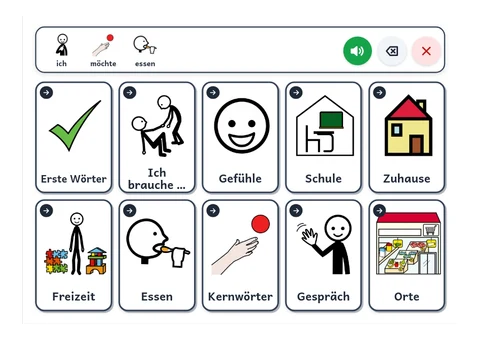
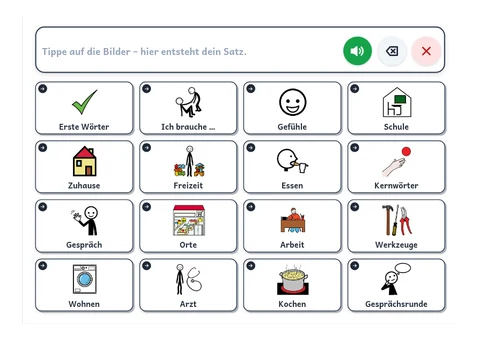
Kommunikationsbuch wie in Lernsachen-Heft 1.47.3: sechs neue Themen-Tafeln (Arbeit und Praktikum, Werkzeuge, Wohnen und Haushalt, Beim Arzt, Kochen, Gesprächsrunde) als Lernwerkzeuge und im Kommunikationsbuch, dessen Startseite alle 16 Tafeln im Raster 4 × 4 zeigt; 69 weitere ARASAAC-Bilder in publi

Changed region(s): [[0.0625, 0.2353, 0.9375, 0.9412], [0.0938, 0.0882, 0.5312, 0.2059]]

diff --git a/src/lib/reference/class-runtime.ts b/src/lib/reference/class-runtime.ts
@@ -1,6 +1,7 @@
 /* eslint-disable */
 // @ts-nocheck
-// Generated from Lernsachen-Heft.html by scripts/extract-class-reference.mjs:
+// Generated from Lernsachen-Heft.html (talk boards from Lernsachen-Heft-komplett.html, 1.47.3)
+// by scripts/extract-class-reference.mjs:
 // Uhr, Timer, Datum (Regal › Zeit) and the Multi-Timer of the reference,
 // unchanged except that the weather is asked through /api/wetter.
 var e = Object.create;
@@ -3808,9 +3809,9 @@ function Dk(e17) {
   return { id: YO(`tk`), type: `talk`, label: ``, color: `#ffffff`, ...e17, rot: e17.rot ?? 0 };
 }
 var Ok = { P: { label: `Personen`, color: `#fff3bf` }, V: { label: `Tun-W\xF6rter`, color: `#d3f9d8` }, A: { label: `Wie-W\xF6rter`, color: `#d0ebff` }, N: { label: `Dinge, Orte`, color: `#ffe8cc` }, S: { label: `Soziales`, color: `#ffdeeb` }, F: { label: `Fragen`, color: `#e5dbff` }, K: { label: `Kleine W\xF6rter`, color: `#f1f3f5` }, W: { label: `Wei\xDF`, color: `#ffffff` } };
-var kk = [{ id: `talk-basis`, label: `Erste W\xF6rter`, keywords: `basal basis ja nein mehr fertig stopp hilfe erste w\xF6rter`, cols: 3, rows: 2, cells: [[`Ja`, 5584, `S`, `Ja.`], [`Nein`, 5526, `S`, `Nein.`], [`Mehr`, 5508, `K`, `Mehr, bitte.`], [`Fertig`, 28429, `V`, `Ich bin fertig.`], [`Stopp`, 7196, `S`, `Stopp!`], [`Hilfe`, 32648, `V`, `Hilf mir bitte.`]] }, { id: `talk-brauche`, label: `Ich brauche \u2026`, keywords: `bed\xFCrfnisse pers\xF6nlich brauche toilette trinken essen pause hilfe schmerzen m\xFCde kalt warm`, cols: 4, rows: 3, cells: [[`Toilette`, 5921, `N`, `Ich muss auf die Toilette.`], [`trinken`, 6061, `V`, `Ich m\xF6chte etwas trinken.`], [`essen`, 6456, `V`, `Ich m\xF6chte etwas essen.`], [`Pause`, 24503, `N`, `Ich brauche eine Pause.`], [`Hilfe`, 32648, `V`, `Ich brauche Hilfe.`], [`Schmerzen`, 2367, `N`, `Mir tut etwas weh.`], [`m\xFCde`, 35537, `A`, `Ich bin m\xFCde.`], [`kalt`, 35583, `A`, `Mir ist kalt.`], [`warm`, 35721, `A`, `Mir ist warm.`], [`Ruhe`, 5936, `N`, `Ich brauche Ruhe.`], [`Taschentuch`, 17284, `N`, `Ich brauche ein Taschentuch.`], [`kuscheln`, 6023, `V`, `Ich m\xF6chte kuscheln.`]] }, { id: `talk-gefuehle`, label: `Gef\xFChle`, keywords: `gef\xFChle gef\xFChl fr\xF6hlich traurig w\xFCtend angst krank gut schlecht emotionen wie geht es dir`, cols: 4, rows: 3, cells: [[`fr\xF6hlich`, 35547, `A`, `Ich bin fr\xF6hlich.`], [`traurig`, 35545, `A`, `Ich bin traurig.`], [`w\xFCtend`, 35539, `A`, `Ich bin w\xFCtend.`], [`Angst`, 10261, `N`, `Ich habe Angst.`], [`m\xFCde`, 35537, `A`, `Ich bin m\xFCde.`], [`krank`, 3308, `A`, `Ich bin krank.`], [`gut`, 38564, `A`, `Mir geht es gut.`], [`schlecht`, 39951, `A`, `Mir geht es schlecht.`], [`\xFCberrascht`, 35529, `A`, `Ich bin \xFCberrascht.`], [`aufgeregt`, 30391, `A`, `Ich bin aufgeregt.`], [`ruhig`, 31310, `A`, `Ich bin ruhig.`], [`gelangweilt`, 35531, `A`, `Mir ist langweilig.`]] }, { id: `talk-schule`, short: `Schule`, label: `In der Schule`, keywords: `schule schulisch unterricht klasse stift schere kleber buch heft tafel lesen schreiben rechnen malen pause`, cols: 5, rows: 4, cells: [[`Lehrerin`, 6556, `P`], [`Mitsch\xFCler`, 37658, `P`], [`Stift`, 2440, `N`], [`Buntstifte`, 17016, `N`], [`Schere`, 2591, `N`], [`Kleber`, 2709, `N`], [`Buch`, 25191, `N`], [`Heft`, 2359, `N`], [`Arbeitsblatt`, 37405, `N`], [`Tafel`, 2526, `N`], [`Computer`, 7190, `N`], [`Tablet`, 28099, `N`], [`lesen`, 7141, `V`], [`schreiben`, 2380, `V`], [`rechnen`, 8518, `V`], [`malen`, 5574, `V`], [`Pause`, 24503, `N`, `Ich brauche eine Pause.`], [`fertig`, 28429, `V`, `Ich bin fertig.`], [`Hilfe`, 32648, `V`, `Kannst du mir helfen?`], [`Toilette`, 5921, `N`, `Ich muss auf die Toilette.`]] }, { id: `talk-zuhause`, short: `Zuhause`, label: `Zuhause und Familie`, keywords: `privat zuhause familie mama papa bruder schwester oma opa baby schlafen baden hund katze`, cols: 4, rows: 3, cells: [[`Mama`, 2458, `P`], [`Papa`, 31146, `P`], [`Bruder`, 2423, `P`], [`Schwester`, 2422, `P`], [`Oma`, 23710, `P`], [`Opa`, 23718, `P`], [`Baby`, 6060, `P`], [`Zuhause`, 6964, `N`], [`schlafen`, 6479, `V`], [`baden`, 6058, `V`], [`Hund`, 7202, `N`], [`Katze`, 7114, `N`]] }, { id: `talk-freizeit`, short: `Freizeit`, label: `Freizeit und Hobbys`, keywords: `freizeit hobbys hobby spielen fu\xDFball malen musik singen tanzen fahrrad schwimmen fernsehen spielplatz freunde`, cols: 4, rows: 4, cells: [[`spielen`, 23392, `V`], [`Fu\xDFball`, 16743, `N`], [`malen`, 5574, `V`], [`Musik h\xF6ren`, 2746, `V`], [`singen`, 6960, `V`], [`tanzen`, 35747, `V`], [`Fahrrad fahren`, 36945, `V`], [`schwimmen`, 6568, `V`], [`fernsehen`, 29123, `V`], [`Videospiel`, 37464, `N`], [`lesen`, 7141, `V`], [`drau\xDFen`, 5475, `A`], [`Spielplatz`, 33064, `N`], [`Freunde`, 2255, `P`], [`Puzzle`, 2540, `N`], [`basteln`, 7794, `V`]] }, { id: `talk-essen`, short: `Essen`, label: `Essen und Trinken`, keywords: `essen trinken fr\xFChst\xFCck pause wasser saft milch brot apfel banane nudeln pizza`, cols: 4, rows: 4, cells: [[`Wasser`, 32464, `N`], [`Saft`, 11461, `N`], [`Milch`, 2445, `N`], [`Kakao`, 4940, `N`], [`Brot`, 2494, `N`], [`Brezel`, 39058, `N`], [`Apfel`, 2462, `N`], [`Banane`, 2530, `N`], [`Nudeln`, 8652, `N`], [`Pizza`, 2527, `N`], [`Kartoffeln`, 2503, `N`], [`Joghurt`, 2618, `N`], [`K\xE4se`, 2541, `N`], [`Cornflakes`, 2328, `N`], [`Keks`, 8312, `N`], [`Eis`, 3348, `N`]] }, { id: `talk-kern`, short: `Kernw\xF6rter`, label: `Kernw\xF6rter mit Satzleiste`, keywords: `kernvokabular kernw\xF6rter kern satzleiste s\xE4tze bauen ich du wir m\xF6chte haben machen gehen nicht mehr`, cols: 6, rows: 4, strip: true, cells: [[`ich`, 6632, `P`], [`m\xF6chte`, 5441, `V`], [`haben`, 32761, `V`], [`ist`, 36480, `V`], [`gut`, 38564, `A`], [`ja`, 5584, `S`], [`du`, 6625, `P`], [`machen`, 32751, `V`], [`gehen`, 8142, `V`], [`spielen`, 23392, `V`], [`schlecht`, 39951, `A`], [`nein`, 5526, `S`], [`wir`, 7183, `P`], [`essen`, 6456, `V`], [`trinken`, 6061, `V`], [`helfen`, 32648, `V`], [`fertig`, 28429, `A`], [`mehr`, 5508, `K`], [`was`, 22620, `F`], [`wo`, 7764, `F`], [`hier`, 5382, `K`], [`nicht`, 5525, `K`], [`auch`, 11591, `K`], [`noch mal`, 37163, `K`]] }, { id: `talk-gespraech`, short: `Gespr\xE4ch`, label: `Gespr\xE4ch und Fragen`, keywords: `gespr\xE4ch fragen hallo tsch\xFCss danke bitte wie geht es dir wer was wo wann warum wie sozial`, cols: 4, rows: 3, cells: [[`Hallo`, 6522, `S`, `Hallo!`], [`Tsch\xFCss`, 6028, `S`, `Tsch\xFCss!`], [`Danke`, 8129, `S`, `Danke!`], [`Bitte`, 8195, `S`, `Bitte.`], [`Wie geht es dir?`, 11597, `S`], [`Mir geht es gut`, 13630, `S`, `Mir geht es gut.`], [`Wer?`, 9853, `F`], [`Was?`, 22620, `F`], [`Wo?`, 7764, `F`], [`Wann?`, 32874, `F`], [`Warum?`, 36719, `F`], [`Wie?`, 22619, `F`]] }, { id: `talk-orte`, label: `Orte`, keywords: `orte ort wohin schule zuhause klassenzimmer turnhalle spielplatz supermarkt arzt garten schwimmbad bus auto b\xE4ckerei`, cols: 4, rows: 3, cells: [[`Schule`, 32446, `N`], [`Zuhause`, 6964, `N`], [`Klassenzimmer`, 33072, `N`], [`Turnhalle`, 33076, `N`], [`Spielplatz`, 33064, `N`], [`Supermarkt`, 3389, `N`], [`Arzt`, 6561, `P`], [`Garten`, 2434, `N`], [`Schwimmbad`, 30516, `N`], [`Bus`, 2263, `N`], [`Auto`, 2339, `N`], [`B\xE4ckerei`, 6576, `N`]] }];
+var kk = [{ id: `talk-basis`, label: `Erste W\xF6rter`, keywords: `basal basis ja nein mehr fertig stopp hilfe erste w\xF6rter`, cols: 3, rows: 2, cells: [[`Ja`, 5584, `S`, `Ja.`], [`Nein`, 5526, `S`, `Nein.`], [`Mehr`, 5508, `K`, `Mehr, bitte.`], [`Fertig`, 28429, `V`, `Ich bin fertig.`], [`Stopp`, 7196, `S`, `Stopp!`], [`Hilfe`, 32648, `V`, `Hilf mir bitte.`]] }, { id: `talk-brauche`, label: `Ich brauche \u2026`, keywords: `bed\xFCrfnisse pers\xF6nlich brauche toilette trinken essen pause hilfe schmerzen m\xFCde kalt warm`, cols: 4, rows: 3, cells: [[`Toilette`, 5921, `N`, `Ich muss auf die Toilette.`], [`trinken`, 6061, `V`, `Ich m\xF6chte etwas trinken.`], [`essen`, 6456, `V`, `Ich m\xF6chte etwas essen.`], [`Pause`, 24503, `N`, `Ich brauche eine Pause.`], [`Hilfe`, 32648, `V`, `Ich brauche Hilfe.`], [`Schmerzen`, 2367, `N`, `Mir tut etwas weh.`], [`m\xFCde`, 35537, `A`, `Ich bin m\xFCde.`], [`kalt`, 35583, `A`, `Mir ist kalt.`], [`warm`, 35721, `A`, `Mir ist warm.`], [`Ruhe`, 5936, `N`, `Ich brauche Ruhe.`], [`Taschentuch`, 17284, `N`, `Ich brauche ein Taschentuch.`], [`kuscheln`, 6023, `V`, `Ich m\xF6chte kuscheln.`]] }, { id: `talk-gefuehle`, label: `Gef\xFChle`, keywords: `gef\xFChle gef\xFChl fr\xF6hlich traurig w\xFCtend angst krank gut schlecht emotionen wie geht es dir`, cols: 4, rows: 3, cells: [[`fr\xF6hlich`, 35547, `A`, `Ich bin fr\xF6hlich.`], [`traurig`, 35545, `A`, `Ich bin traurig.`], [`w\xFCtend`, 35539, `A`, `Ich bin w\xFCtend.`], [`Angst`, 10261, `N`, `Ich habe Angst.`], [`m\xFCde`, 35537, `A`, `Ich bin m\xFCde.`], [`krank`, 3308, `A`, `Ich bin krank.`], [`gut`, 38564, `A`, `Mir geht es gut.`], [`schlecht`, 39951, `A`, `Mir geht es schlecht.`], [`\xFCberrascht`, 35529, `A`, `Ich bin \xFCberrascht.`], [`aufgeregt`, 30391, `A`, `Ich bin aufgeregt.`], [`ruhig`, 31310, `A`, `Ich bin ruhig.`], [`gelangweilt`, 35531, `A`, `Mir ist langweilig.`]] }, { id: `talk-schule`, short: `Schule`, label: `In der Schule`, keywords: `schule schulisch unterricht klasse stift schere kleber buch heft tafel lesen schreiben rechnen malen pause`, cols: 5, rows: 4, cells: [[`Lehrerin`, 6556, `P`], [`Mitsch\xFCler`, 37658, `P`], [`Stift`, 2440, `N`], [`Buntstifte`, 17016, `N`], [`Schere`, 2591, `N`], [`Kleber`, 2709, `N`], [`Buch`, 25191, `N`], [`Heft`, 2359, `N`], [`Arbeitsblatt`, 37405, `N`], [`Tafel`, 2526, `N`], [`Computer`, 7190, `N`], [`Tablet`, 28099, `N`], [`lesen`, 7141, `V`], [`schreiben`, 2380, `V`], [`rechnen`, 8518, `V`], [`malen`, 5574, `V`], [`Pause`, 24503, `N`, `Ich brauche eine Pause.`], [`fertig`, 28429, `V`, `Ich bin fertig.`], [`Hilfe`, 32648, `V`, `Kannst du mir helfen?`], [`Toilette`, 5921, `N`, `Ich muss auf die Toilette.`]] }, { id: `talk-zuhause`, short: `Zuhause`, label: `Zuhause und Familie`, keywords: `privat zuhause familie mama papa bruder schwester oma opa baby schlafen baden hund katze`, cols: 4, rows: 3, cells: [[`Mama`, 2458, `P`], [`Papa`, 31146, `P`], [`Bruder`, 2423, `P`], [`Schwester`, 2422, `P`], [`Oma`, 23710, `P`], [`Opa`, 23718, `P`], [`Baby`, 6060, `P`], [`Zuhause`, 6964, `N`], [`schlafen`, 6479, `V`], [`baden`, 6058, `V`], [`Hund`, 7202, `N`], [`Katze`, 7114, `N`]] }, { id: `talk-freizeit`, short: `Freizeit`, label: `Freizeit und Hobbys`, keywords: `freizeit hobbys hobby spielen fu\xDFball malen musik singen tanzen fahrrad schwimmen fernsehen spielplatz freunde`, cols: 4, rows: 4, cells: [[`spielen`, 23392, `V`], [`Fu\xDFball`, 16743, `N`], [`malen`, 5574, `V`], [`Musik h\xF6ren`, 2746, `V`], [`singen`, 6960, `V`], [`tanzen`, 35747, `V`], [`Fahrrad fahren`, 36945, `V`], [`schwimmen`, 6568, `V`], [`fernsehen`, 29123, `V`], [`Videospiel`, 37464, `N`], [`lesen`, 7141, `V`], [`drau\xDFen`, 5475, `A`], [`Spielplatz`, 33064, `N`], [`Freunde`, 2255, `P`], [`Puzzle`, 2540, `N`], [`basteln`, 7794, `V`]] }, { id: `talk-essen`, short: `Essen`, label: `Essen und Trinken`, keywords: `essen trinken fr\xFChst\xFCck pause wasser saft milch brot apfel banane nudeln pizza`, cols: 4, rows: 4, cells: [[`Wasser`, 32464, `N`], [`Saft`, 11461, `N`], [`Milch`, 2445, `N`], [`Kakao`, 4940, `N`], [`Brot`, 2494, `N`], [`Brezel`, 39058, `N`], [`Apfel`, 2462, `N`], [`Banane`, 2530, `N`], [`Nudeln`, 8652, `N`], [`Pizza`, 2527, `N`], [`Kartoffeln`, 2503, `N`], [`Joghurt`, 2618, `N`], [`K\xE4se`, 2541, `N`], [`Cornflakes`, 2328, `N`], [`Keks`, 8312, `N`], [`Eis`, 3348, `N`]] }, { id: `talk-kern`, short: `Kernw\xF6rter`, label: `Kernw\xF6rter mit Satzleiste`, keywords: `kernvokabular kernw\xF6rter kern satzleiste s\xE4tze bauen ich du wir m\xF6chte haben machen gehen nicht mehr`, cols: 6, rows: 4, strip: true, cells: [[`ich`, 6632, `P`], [`m\xF6chte`, 5441, `V`], [`haben`, 32761, `V`], [`ist`, 36480, `V`], [`gut`, 38564, `A`], [`ja`, 5584, `S`], [`du`, 6625, `P`], [`machen`, 32751, `V`], [`gehen`, 8142, `V`], [`spielen`, 23392, `V`], [`schlecht`, 39951, `A`], [`nein`, 5526, `S`], [`wir`, 7183, `P`], [`essen`, 6456, `V`], [`trinken`, 6061, `V`], [`helfen`, 32648, `V`], [`fertig`, 28429, `A`], [`mehr`, 5508, `K`], [`was`, 22620, `F`], [`wo`, 7764, `F`], [`hier`, 5382, `K`], [`nicht`, 5525, `K`], [`auch`, 11591, `K`], [`noch mal`, 37163, `K`]] }, { id: `talk-gespraech`, short: `Gespr\xE4ch`, label: `Gespr\xE4ch und Fragen`, keywords: `gespr\xE4ch fragen hallo tsch\xFCss danke bitte wie geht es dir wer was wo wann warum wie sozial`, cols: 4, rows: 3, cells: [[`Hallo`, 6522, `S`, `Hallo!`], [`Tsch\xFCss`, 6028, `S`, `Tsch\xFCss!`], [`Danke`, 8129, `S`, `Danke!`], [`Bitte`, 8195, `S`, `Bitte.`], [`Wie geht es dir?`, 11597, `S`], [`Mir geht es gut`, 13630, `S`, `Mir geht es gut.`], [`Wer?`, 9853, `F`], [`Was?`, 22620, `F`], [`Wo?`, 7764, `F`], [`Wann?`, 32874, `F`], [`Warum?`, 36719, `F`], [`Wie?`, 22619, `F`]] }, { id: `talk-orte`, label: `Orte`, keywords: `orte ort wohin schule zuhause klassenzimmer turnhalle spielplatz supermarkt arzt garten schwimmbad bus auto b\xE4ckerei`, cols: 4, rows: 3, cells: [[`Schule`, 32446, `N`], [`Zuhause`, 6964, `N`], [`Klassenzimmer`, 33072, `N`], [`Turnhalle`, 33076, `N`], [`Spielplatz`, 33064, `N`], [`Supermarkt`, 3389, `N`], [`Arzt`, 6561, `P`], [`Garten`, 2434, `N`], [`Schwimmbad`, 30516, `N`], [`Bus`, 2263, `N`], [`Auto`, 2339, `N`], [`B\xE4ckerei`, 6576, `N`]] }, { id: `talk-arbeit`, label: `Arbeit und Praktikum`, short: `Arbeit`, keywords: `arbeit praktikum werkstatt wfbm betrieb arbeitsplatz hilfe pause fertig material kaputt feierabend krank chef kollegen beruf`, cols: 4, rows: 3, cells: [[`Guten Morgen`, 6522, `S`, `Guten Morgen!`], [`Was soll ich tun?`, 5556, `F`, `Was soll ich tun?`], [`fertig`, 28429, `V`, `Ich bin fertig.`], [`Hilfe`, 32648, `V`, `K\xF6nnen Sie mir bitte helfen?`], [`nicht verstanden`, 11697, `V`, `Das habe ich nicht verstanden.`], [`zeigen`, 16823, `V`, `Zeigen Sie es mir bitte noch einmal.`], [`Material`, 7127, `N`, `Mir fehlt Material.`], [`kaputt`, 32388, `A`, `Das ist kaputt.`], [`Pause`, 24503, `N`, `Ich brauche eine Pause.`], [`Toilette`, 5921, `N`, `Ich muss auf die Toilette.`], [`krank`, 3308, `A`, `Mir geht es nicht gut.`], [`Feierabend`, 39738, `S`, `Sch\xF6nen Feierabend!`]] }, { id: `talk-werkzeug`, label: `Werkzeuge`, keywords: `werkzeuge werkzeug werken werkstatt holz metall fachbegriffe hammer s\xE4ge schraubenzieher bohrmaschine zange schraube nagel feile pinsel meterstab`, cols: 4, rows: 3, cells: [[`Hammer`, 2922, `N`, `Ich brauche den Hammer.`], [`S\xE4ge`, 2799, `N`, `Ich brauche die S\xE4ge.`], [`Schraubenzieher`, 2736, `N`, `Ich brauche den Schraubenzieher.`], [`Bohrmaschine`, 3392, `N`, `Ich brauche die Bohrmaschine.`], [`Zange`, 2644, `N`, `Ich brauche die Zange.`], [`Schraube`, 2788, `N`, `Ich brauche eine Schraube.`], [`Nagel`, 8306, `N`, `Ich brauche einen Nagel.`], [`Feile`, 5501, `N`, `Ich brauche die Feile.`], [`Pinsel`, 2523, `N`, `Ich brauche den Pinsel.`], [`Meterstab`, 2915, `N`, `Ich brauche den Meterstab.`], [`Schleifpapier`, 5498, `N`, `Ich brauche Schleifpapier.`], [`Akkuschrauber`, 39587, `N`, `Ich brauche den Akkuschrauber.`]] }, { id: `talk-wohnen`, label: `Wohnen und Haushalt`, short: `Wohnen`, keywords: `wohnen haushalt wohngruppe wohntraining kochen putzen waschen w\xE4sche einkaufen aufr\xE4umen m\xFCll schl\xFCssel nachbar ruhe zimmer k\xFCche`, cols: 4, rows: 3, cells: [[`kochen`, 2342, `V`, `Ich koche.`], [`putzen`, 3351, `V`, `Ich putze.`], [`W\xE4sche waschen`, 2442, `V`, `Ich wasche W\xE4sche.`], [`einkaufen`, 8986, `V`, `Ich gehe einkaufen.`], [`aufr\xE4umen`, 5514, `V`, `Ich r\xE4ume auf.`], [`M\xFCll`, 2355, `N`, `Ich bringe den M\xFCll raus.`], [`K\xFCche`, 10752, `N`, `Ich bin in der K\xFCche.`], [`Zimmer`, 5988, `N`, `Ich gehe in mein Zimmer.`], [`Schl\xFCssel`, 2451, `N`, `Wo ist mein Schl\xFCssel?`], [`Nachbar`, 26529, `P`, `Das ist mein Nachbar.`], [`Ruhe`, 5936, `S`, `Bitte sei leise.`], [`Hilfe`, 32648, `V`, `Kannst du mir bitte helfen?`]] }, { id: `talk-arzt`, label: `Beim Arzt`, short: `Arzt`, keywords: `arzt \xE4rztin praxis krank schmerzen kopfschmerzen bauchschmerzen fieber husten schwindel medikament termin versichertenkarte gesundheit`, cols: 4, rows: 3, cells: [[`Termin`, 16165, `N`, `Ich m\xF6chte einen Termin.`], [`Versichertenkarte`, 34717, `N`, `Hier ist meine Versichertenkarte.`], [`Kopfschmerzen`, 28651, `N`, `Ich habe Kopfschmerzen.`], [`Bauchschmerzen`, 28766, `N`, `Ich habe Bauchschmerzen.`], [`Halsschmerzen`, 28762, `N`, `Ich habe Halsschmerzen.`], [`Zahnschmerzen`, 10263, `N`, `Ich habe Zahnschmerzen.`], [`Fieber`, 32530, `N`, `Ich habe Fieber.`], [`Husten`, 3406, `N`, `Ich habe Husten.`], [`Schwindel`, 35569, `A`, `Mir ist schwindelig.`], [`Medikament`, 8163, `N`, `Muss ich ein Medikament nehmen?`], [`Wie lange?`, 2549, `F`, `Wie lange dauert es?`], [`Danke`, 8129, `S`, `Vielen Dank!`]] }, { id: `talk-kochen`, label: `Kochen`, keywords: `kochen k\xFCche schulk\xFCche backen braten schneiden sch\xE4len r\xFChren wiegen sp\xFClen messer schneidebrett sch\xFCssel topf pfanne lecker hei\xDF hauswirtschaft ern\xE4hrung`, cols: 5, rows: 4, cells: [[`waschen`, 34826, `V`, `Ich wasche das Obst.`], [`sch\xE4len`, 38982, `V`, `Ich sch\xE4le.`], [`schneiden`, 5975, `V`, `Ich schneide.`], [`r\xFChren`, 25738, `V`, `Ich r\xFChre.`], [`wiegen`, 4717, `V`, `Ich wiege ab.`], [`kochen`, 5485, `V`, `Ich koche.`], [`braten`, 3325, `V`, `Ich brate.`], [`backen`, 5487, `V`, `Ich backe.`], [`probieren`, 7124, `V`, `Ich probiere.`], [`sp\xFClen`, 36395, `V`, `Ich sp\xFCle.`], [`Messer`, 3237, `N`, `Ich brauche ein Messer.`], [`Schneidebrett`, 9090, `N`, `Ich brauche ein Schneidebrett.`], [`Sch\xFCssel`, 3257, `N`, `Ich brauche eine Sch\xFCssel.`], [`Topf`, 9086, `N`, `Ich brauche einen Topf.`], [`Pfanne`, 2558, `N`, `Ich brauche eine Pfanne.`], [`Hilfe`, 32648, `V`, `Hilf mir bitte.`], [`Was jetzt?`, 7217, `F`, `Was mache ich jetzt?`], [`Vorsicht, hei\xDF!`, 26716, `A`, `Vorsicht, hei\xDF!`], [`lecker`, 32340, `A`, `Das schmeckt lecker.`], [`fertig`, 28429, `S`, `Ich bin fertig.`]] }, { id: `talk-runde`, label: `Gespr\xE4chsrunde`, keywords: `gespr\xE4chsrunde gespr\xE4ch philosophieren philosophie ethik meinung satzanf\xE4nge satzmuster diskutieren diskussion gespr\xE4chsregeln morgenkreis stuhlkreis klassenrat`, cols: 4, rows: 3, cells: [[`Ich glaube \u2026`, 38796, `S`, `Ich glaube,`], [`Vielleicht \u2026`, 11696, `S`, `Vielleicht`], [`Aber \u2026`, 11185, `K`, `Aber`], [`Ja, genau!`, 25752, `S`], [`Ich wei\xDF nicht.`, 7180, `S`], [`Ich sehe das anders.`, 16e3, `S`], [`Warum ist das so?`, 36719, `F`], [`Ist das immer so?`, 17322, `F`], [`Was ist, wenn \u2026?`, 24053, `F`, `Was ist, wenn`], [`Kannst du das erkl\xE4ren?`, 16705, `F`], [`Ich bin dran.`, 7158, `S`], [`Ich h\xF6re zu.`, 6572, `S`]] }];
 var Ak = [`zur\xFCck`, 39494, `K`];
-var pue = { "talk-basis": 5584, "talk-brauche": 32648, "talk-gefuehle": 35547, "talk-schule": 32446, "talk-zuhause": 6964, "talk-freizeit": 23392, "talk-essen": 6456, "talk-kern": 5441, "talk-gespraech": 6522, "talk-orte": 3389 };
+var pue = { "talk-basis": 5584, "talk-brauche": 32648, "talk-gefuehle": 35547, "talk-schule": 32446, "talk-zuhause": 6964, "talk-freizeit": 23392, "talk-essen": 6456, "talk-kern": 5441, "talk-gespraech": 6522, "talk-orte": 3389, "talk-arbeit": 2599, "talk-werkzeug": 7127, "talk-wohnen": 2442, "talk-arzt": 6561, "talk-kochen": 5485, "talk-runde": 38796 };
 var jk = [{ id: `talk-grid-2`, label: `2 Felder`, cols: 2, rows: 1 }, { id: `talk-grid-4`, label: `4 Felder`, cols: 2, rows: 2 }, { id: `talk-grid-6`, label: `6 Felder`, cols: 3, rows: 2 }, { id: `talk-grid-9`, label: `9 Felder`, cols: 3, rows: 3 }, { id: `talk-grid-12`, label: `12 Felder`, cols: 4, rows: 3 }, { id: `talk-grid-20`, label: `20 Felder`, cols: 5, rows: 4 }, { id: `talk-grid-strip`, label: `Satzleiste + 15 Felder`, cols: 5, rows: 3, strip: true }];
 var Mk = 40;
 var Nk = { x: Mk, y: 34, w: 1320, h: 150 };
@@ -4207,4 +4208,13 @@ function classTick(t, e) {
 }
 function classReset(e) { e.timer === `fixed` ? wO(e) : SO.delete(e.id); }
 function classStart(e) { e.kind === `timer` && e.timer === `fixed` && !SO.has(e.id) && wO(e); }
-export { classTime as renderTime, classTap as tapTime, classTick as tickTime, classStart as startTime, classReset as resetTimer, xO as timeSpeech, yO as dateText, CO as timerState, Ule as searchPlace, Hle as loadWeather, BO as weatherWord, Ia as renderMultiTimer, Ki as multiTimerConfig, La as multiTimerLabel, Ea as onMultiTimerChange, sa as stopMultiTimer, Hi as MULTI_TIMER_SOUNDS, Ui as MULTI_TIMER_START, Bi as MULTI_TIMER_COLORS, zi as MULTI_TIMER_NEXT_COLORS, Vi as MULTI_TIMER_ICONS, xne as renderApplause, um as applauseConfig, Rm as applauseLabel, Sm as applausePicture, om as APPLAUSE_WORDS, sm as APPLAUSE_SECONDS, une as NOISE_LIMITS, lNe as MIC_SENSITIVITY, bne as stopApplause, Wne as renderTimetable, Nh as timetableLabel, Gne as timetableSay, jh as timetableHtml, wh as timetableConfig, Ch as timetableStart, Eh as timetableTimes, Th as clockText, h6 as TIMETABLE_SUBJECTS, g6 as TIMETABLE_AFTER, yh as TIMETABLE_DESIGNS, gh as TIMETABLE_FONTS, Be as fontOf, YT as renderCalendar, sce as tapCalendar, cce as calendarLabel, eE as restartCalendar, Aw as renderMap, jw as mapLabel, gse as mapConfig, uw as mapStart, QC as mapDesign, ZC as MAP_DESIGNS, GC as MAP_SYMBOLS, JC as mapSymbol, zC as PATH_KINDS, BC as PATH_COLORS, rw as mapTiles, $C as toWorld, ew as fromWorld, tw as toView, nw as fromView, yw as mapMarks, vw as labelBoxes, ow as distanceText, aw as pathLength, iw as distance, U6 as mapPicture, lDe as searchAddress, WC as tileUrl, VC as MAP_W, HC as MAP_DATA, UC as MAP_CREDIT, yce as renderTalk, Sce as tapTalk, pE as renderStrip, Tce as tapStrip, Cce as addToStrip, wce as clearStrip, kk as TALK_BOARDS, Ak as TALK_BACK, jk as TALK_GRIDS, Ok as WORD_CLASSES, pue as TALK_BOOK_ICONS, Ik as talkLayout, Rk as bookCells, Nk as STRIP_BOX, mh as renderPitch, hh as pitchLabel, Vm as pitchConfig, zm as PITCH_SECONDS, Hm as secondsText, Lne as stopPitch, Bm as PITCH_START, tte as renderSlideshow, nte as slideshowLabel, Qd as showStart, Xd as SHOW_DESIGNS, Zd as showDesign, Gd as SHOW_TRANSITIONS, Kd as SHOW_CAPTIONS, Fu as SHOW_MOODS, af as playSlideshow, pte as renderAnimation, Vf as animationLabel, df as animationStart, pG as setKey, uG as keyAt, vf as stateAt, mG as measureText, ff as makeKey, wf as objectTransform, Cf as objectSvg, Ef as backgroundSvg, Tf as pathsSvg, lG as snapTime, dG as timeText, hf as pathLength2, gf as pathDuration, cf as ANIM_PATH_COLORS, cG as KEY_EPS, ede as animationExample, ate as ANIM_LENGTHS, ote as ANIM_BACKGROUNDS, sf as ANIM_EASES, lf as ANIM_FONTS, of as STAGE_W, sG as animationGif, JI as svgRatio, CLASS_CSS };
+function talkBookGrid() {
+  let e17 = kk.length, t10 = [5, Math.ceil(e17 / 5)];
+  for (let n10 of [6, 5, 4]) {
+    let r10 = Math.ceil(e17 / n10);
+    n10 * r10 - e17 < t10[0] * t10[1] - e17 && (t10 = [n10, r10]);
+  }
+  return t10;
+}
+
+export { classTime as renderTime, classTap as tapTime, classTick as tickTime, classStart as startTime, classReset as resetTimer, xO as timeSpeech, yO as dateText, CO as timerState, Ule as searchPlace, Hle as loadWeather, BO as weatherWord, Ia as renderMultiTimer, Ki as multiTimerConfig, La as multiTimerLabel, Ea as onMultiTimerChange, sa as stopMultiTimer, Hi as MULTI_TIMER_SOUNDS, Ui as MULTI_TIMER_START, Bi as MULTI_TIMER_COLORS, zi as MULTI_TIMER_NEXT_COLORS, Vi as MULTI_TIMER_ICONS, xne as renderApplause, um as applauseConfig, Rm as applauseLabel, Sm as applausePicture, om as APPLAUSE_WORDS, sm as APPLAUSE_SECONDS, une as NOISE_LIMITS, lNe as MIC_SENSITIVITY, bne as stopApplause, Wne as renderTimetable, Nh as timetableLabel, Gne as timetableSay, jh as timetableHtml, wh as timetableConfig, Ch as timetableStart, Eh as timetableTimes, Th as clockText, h6 as TIMETABLE_SUBJECTS, g6 as TIMETABLE_AFTER, yh as TIMETABLE_DESIGNS, gh as TIMETABLE_FONTS, Be as fontOf, YT as renderCalendar, sce as tapCalendar, cce as calendarLabel, eE as restartCalendar, Aw as renderMap, jw as mapLabel, gse as mapConfig, uw as mapStart, QC as mapDesign, ZC as MAP_DESIGNS, GC as MAP_SYMBOLS, JC as mapSymbol, zC as PATH_KINDS, BC as PATH_COLORS, rw as mapTiles, $C as toWorld, ew as fromWorld, tw as toView, nw as fromView, yw as mapMarks, vw as labelBoxes, ow as distanceText, aw as pathLength, iw as distance, U6 as mapPicture, lDe as searchAddress, WC as tileUrl, VC as MAP_W, HC as MAP_DATA, UC as MAP_CREDIT, yce as renderTalk, Sce as tapTalk, pE as renderStrip, Tce as tapStrip, Cce as addToStrip, wce as clearStrip, kk as TALK_BOARDS, Ak as TALK_BACK, jk as TALK_GRIDS, Ok as WORD_CLASSES, pue as TALK_BOOK_ICONS, Ik as talkLayout, Rk as bookCells, Nk as STRIP_BOX, mh as renderPitch, hh as pitchLabel, Vm as pitchConfig, zm as PITCH_SECONDS, Hm as secondsText, Lne as stopPitch, Bm as PITCH_START, tte as renderSlideshow, nte as slideshowLabel, Qd as showStart, Xd as SHOW_DESIGNS, Zd as showDesign, Gd as SHOW_TRANSITIONS, Kd as SHOW_CAPTIONS, Fu as SHOW_MOODS, af as playSlideshow, pte as renderAnimation, Vf as animationLabel, df as animationStart, pG as setKey, uG as keyAt, vf as stateAt, mG as measureText, ff as makeKey, wf as objectTransform, Cf as objectSvg, Ef as backgroundSvg, Tf as pathsSvg, lG as snapTime, dG as timeText, hf as pathLength2, gf as pathDuration, cf as ANIM_PATH_COLORS, cG as KEY_EPS, ede as animationExample, ate as ANIM_LENGTHS, ote as ANIM_BACKGROUNDS, sf as ANIM_EASES, lf as ANIM_FONTS, of as STAGE_W, sG as animationGif, JI as svgRatio, CLASS_CSS, talkBookGrid };

diff --git a/test/e2e/zeit.spec.ts b/test/e2e/zeit.spec.ts
@@ -189,12 +189,21 @@ test('Unterstützte Kommunikation: Tafel mit Satzleiste und Kommunikationsbuch m
   await open('Kommunikationsbuch mit allen Tafeln');
   // The book comes after the board: its first page has a key for each board.
   await page.getByLabel('Seite 2 öffnen', { exact: true }).click();
-  await expect(surface.locator('.lh-talk.is-folder')).toHaveCount(10);
+  // 16 boards since Lernsachen-Heft 1.47.3, laid out 4 × 4.
+  await expect(surface.locator('.lh-talk.is-folder')).toHaveCount(16);
   await surface.locator('.lh-talk.is-folder').filter({ hasText: 'Gefühle' }).locator('.lh-talk-card').click();
   await expect(surface.locator('.lh-talk-card').filter({ hasText: 'zurück' })).toHaveCount(1, { timeout: 10000 });
   await page.screenshot({ path: test.info().outputPath('uk-gefuehle.png') });
   await surface.locator('.lh-talk-card').filter({ hasText: 'zurück' }).click();
-  await expect(surface.locator('.lh-talk.is-folder')).toHaveCount(10, { timeout: 10000 });
+  await expect(surface.locator('.lh-talk.is-folder')).toHaveCount(16, { timeout: 10000 });
+  // One of the six boards of 1.47.3: Beim Arzt, with its pictures shipped in /uk.
+  await surface.locator('.lh-talk.is-folder').filter({ hasText: 'Arzt' }).locator('.lh-talk-card').click();
+  await expect(surface.getByRole('button', { name: 'Ich habe Kopfschmerzen.', exact: true })).toBeVisible({ timeout: 10000 });
+  const picture = surface.locator('.lh-talk-card').filter({ hasText: 'Kopfschmerzen' }).locator('img');
+  await expect(picture).toHaveJSProperty('complete', true);
+  expect(await picture.evaluate((img: HTMLImageElement) => img.naturalWidth)).toBeGreaterThan(0);
+  await surface.locator('.lh-talk-card').filter({ hasText: 'zurück' }).click();
+  await expect(surface.locator('.lh-talk.is-folder')).toHaveCount(16, { timeout: 10000 });
   expect(errors).toEqual([]);
 });
 

diff --git a/src/lib/learning/uk.ts b/src/lib/learning/uk.ts
@@ -5,7 +5,7 @@
 // pages of single keys, laid out by the reference (reference/class-runtime.ts);
 // the ARASAAC pictures of the boards ship with the app (/uk/<id>.webp).
 import { newPage, uuid, type Page, type PageElement } from '../notebook-model';
-import { bookCells, TALK_BOARDS, TALK_GRIDS, talkLayout, WORD_CLASSES } from '../reference/class-runtime';
+import { bookCells, TALK_BOARDS, TALK_GRIDS, talkBookGrid, talkLayout, WORD_CLASSES } from '../reference/class-runtime';
 
 export type TalkConfig = {
   label: string;
@@ -96,9 +96,11 @@ export function relink(pages: Page[], from: string, to: string): Page[] {
   }));
 }
 
-/** The communication book: a first page with a key per board, each board with a back key (cye of the reference). */
+/** The communication book: a first page with a key per board, each board with a back key (cye of the reference).
+ *  The first page is laid out for all boards (4 × 4 for the 16 boards of 1.47.3). */
 export function bookPages(): Page[] {
-  const index = boardPage(5, 2, true, bookCells() as Cell[], 'Kommunikationsbuch');
+  const [cols, rows] = talkBookGrid() as [number, number];
+  const index = boardPage(cols, rows, true, bookCells() as Cell[], 'Kommunikationsbuch');
   const boards = BOARDS.map((b) => boardPage(b.cols, b.rows, true, b.cells, b.label, true));
   const keys = index.elements.filter((e) => e.widgetKind === 'sprechtaste');
   keys.forEach((e, i) => { if (boards[i]) (e.settings!.talk as unknown as TalkConfig).link = boards[i].id; });

diff --git a/test/e2e/learning-blocks.spec.ts b/test/e2e/learning-blocks.spec.ts
@@ -44,8 +44,8 @@ test('Lernwerkzeuge nach Fächern, Vorlagen nur gestalterisch, einstellbare Arbe
   await subjects.getByRole('button', { name: /^Unterstützte Kommunikation · / }).click();
   await dialog.getByRole('button', { name: 'Kommunikationsbuch mit allen Tafeln', exact: true }).click();
   await expect(dialog).toHaveCount(0);
-  // A first page with a key for each board, then the ten boards.
-  await expect(page.locator('.page-thumbnail')).toHaveCount(12);
+  // A first page with a key for each board, then the 16 boards.
+  await expect(page.locator('.page-thumbnail')).toHaveCount(18);
 
   // Templates: design only, plus the settable worksheets.
   await page.getByRole('complementary', { name: 'Seitenübersicht' }).getByRole('button', { name: 'Neue Seite', exact: true }).click();
@@ -75,6 +75,6 @@ test('Lernwerkzeuge nach Fächern, Vorlagen nur gestalterisch, einstellbare Arbe
   await page.screenshot({ path: test.info().outputPath('uhrzeiten-dialog.png') });
   await clock.getByRole('button', { name: '1 Seite einfügen' }).click();
   await expect(clock).toHaveCount(0, { timeout: 20000 });
-  await expect(page.locator('.page-thumbnail')).toHaveCount(13);
+  await expect(page.locator('.page-thumbnail')).toHaveCount(19);
   await page.screenshot({ path: test.info().outputPath('uhrzeiten-seite.png') });
 });

diff --git a/docs/integration-lernsachen-1.47.3.md b/docs/integration-lernsachen-1.47.3.md
@@ -33,12 +33,22 @@ Vorlagenregister anhand ihrer Struktur, prüft die ausgewählten Kennungen und
 bricht bei unbekannten Elementtypen ab. Die vollständigen eingebetteten Editoren
 werden nicht versehentlich als Hauptprogramm gelesen.
 
+## Zweite Ausbaustufe: Kommunikationsbuch
+
+Die sechs neuen Themen-Tafeln sind integriert (24 der 89 Einträge): Arbeit und
+Praktikum, Werkzeuge, Wohnen und Haushalt, Beim Arzt, Kochen und
+Gesprächsrunde. Sie stehen unter Lernwerkzeuge › Unterstützte Kommunikation und
+im Kommunikationsbuch, dessen Startseite nun alle 16 Tafeln im Raster 4 × 4
+zeigt. `scripts/extract-class-reference.mjs` übernimmt Tafelliste, Buchsymbole
+und Buch-Raster aus `Lernsachen-Heft-komplett.html`; Tasten, Satzleiste und
+Layout sind in beiden Versionen gleich. Die Bildersammlung wächst von 121 auf
+190 ARASAAC-Bilder; die bisherigen sind bytegleich.
+
 ## Noch offene Übernahmen
 
-71 neue Katalogeinträge sind noch offen. Dazu gehören insbesondere:
+65 neue Katalogeinträge sind noch offen. Dazu gehören insbesondere:
 
 - die neuen Hörwerkzeuge und „Laute hören“;
-- sechs zusätzliche Kommunikationstafeln;
 - Programmieren sowie die interaktiven Werkzeuge für Alltag und Beruf;
 - Gefühle-Karten und die interaktive Praktikumseinschätzung;
 - die vollständige Zusammenstellung der Praktikumsmappe;

diff --git a/docs/analyse-lernwerkzeuge.md b/docs/analyse-lernwerkzeuge.md
@@ -444,10 +444,13 @@ nimmt das letzte Wort zurück oder leert alles. Einzeln einfügbar: Sprechtaste
 (Einstellungen `TalkOptions.tsx`: Wort, Satz, Farbe, Bild über ARASAAC oder
 eigenes, eigene Aufnahme, ohne Wort, Zurück-Taste; Verknüpfung mit „Link“),
 Satzleiste, Zurück-Taste. Tafeln mit 2–20 Feldern, Satzleiste + 15 Felder, die
-zehn Themen-Tafeln und das Kommunikationsbuch (Startseite mit einer Taste je
+16 Themen-Tafeln und das Kommunikationsbuch (Startseite mit einer Taste je
 Tafel, jede Tafel mit Zurück-Taste) entstehen als Seiten aus solchen Tasten, mit
-dem Layout der Vorlage (`lib/learning/uk.ts`); die 121 ARASAAC-Bilder liegen in
-`public/uk/`. Damit die Links der Buchseiten gültig bleiben, behält der Server
+dem Layout der Vorlage (`lib/learning/uk.ts`); die 190 ARASAAC-Bilder liegen in
+`public/uk/`. Seit 16.11.2026 kommen Tafeln, Buch-Raster und Bilder aus
+Lernsachen-Heft 1.47.3: sechs weitere Tafeln (Arbeit und Praktikum, Werkzeuge,
+Wohnen und Haushalt, Beim Arzt, Kochen, Gesprächsrunde), Startseite des Buchs
+4 × 4 statt 5 × 2. Damit die Links der Buchseiten gültig bleiben, behält der Server
 beim Einfügen eine mitgeschickte freie Seiten-ID. Die frühere eigene
 Kommunikationstafel ist nicht mehr auswählbar; vorhandene Seiten damit
 funktionieren weiter.
